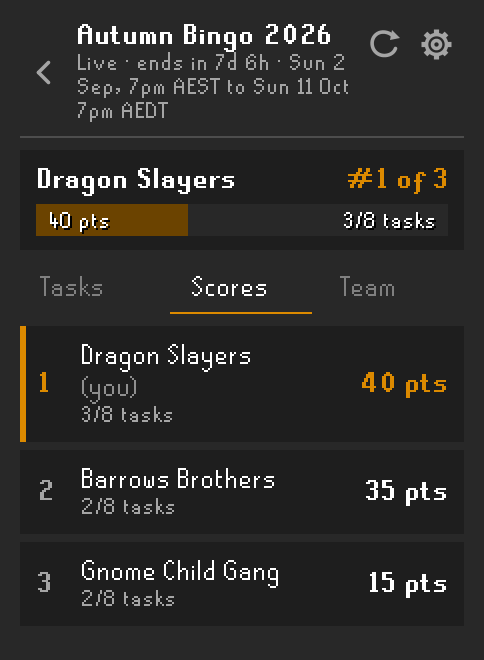
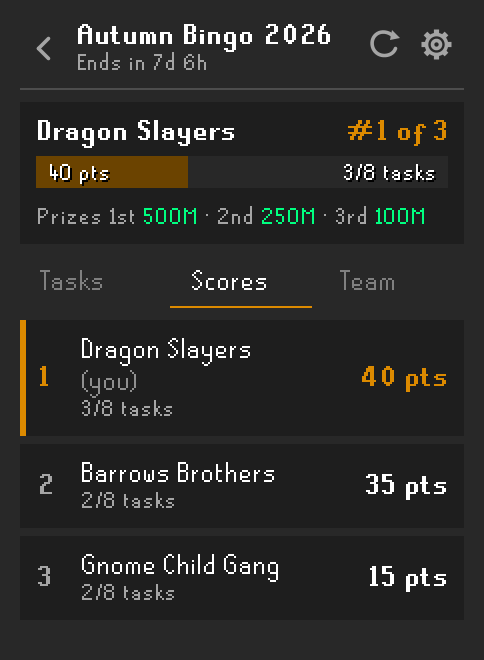
docs: refresh readme and screenshots (#37)

diff --git a/src/test/java/com/tsghub/ReadmeScreenshots.java b/src/test/java/com/tsghub/ReadmeScreenshots.java
@@ -148,7 +148,7 @@ public class ReadmeScreenshots
 		selectTab(organizer, "Tasks");
 		shoot(organizer, 860, 580, "admin-tasks");
 		selectTab(organizer, "Claims");
-		shoot(organizer, 860, 240, "admin-claims");
+		shoot(organizer, 860, 270, "admin-claims");
 
 		hero(480, eventList, board, parties);
 	}

diff --git a/README.md b/README.md
@@ -11,6 +11,7 @@ Clan events for **Type Shiii Gaming** (TSG), right in your RuneLite sidebar. Joi
 - **Bingo boards** with team tasks that update automatically from kills, drops, raids and collection log unlocks.
 - **Skill of the Week** and **Boss of the Week** leaderboards you join with one click.
 - **Custom** events (drop parties, clan trips, anything else) announced with the time, world and location.
+- **Prizes**: events can list GP prizes for 1st, 2nd and 3rd place.
 - **Clan parties** for raids, bossing and skilling. Join with one click, no passphrase to type, and see your party's health, prayer, gear, inventory and skills live.
 - **Members** list showing which clanmates are online, their world, area and what they're doing.
 - **Drops** history of the clan's big drops, raid loot, pets and collection log items, so you can catch up on what you missed.
@@ -18,7 +19,7 @@ Clan events for **Type Shiii Gaming** (TSG), right in your RuneLite sidebar. Joi
 
 ## Bingo
 
-Your team's board opens straight from the sidebar. Every task shows its points, a progress bar, and who contributed what. Open tasks sort first; tick **Hide completed** to focus on what's left.
+Your team's board opens straight from the sidebar. The header shows your team's rank, points and tasks done, plus the prize for each place. Every task shows its points, a progress bar, and who contributed what. Open tasks sort first; tick **Hide completed** to focus on what's left.
 
 **Scores** ranks every team, and **Team** lists your teammates. The board updates live while it's open.
 
@@ -49,6 +50,8 @@ Tasks can be **Team** (everyone's progress pools together), **Everyone** (each m
 
 **Custom events**, like drop parties, show when and where they happen, along with the host and any notes.
 
+The **Events** list splits live and upcoming events, with each one's prize pool. Open an event to see the prize for each place.
+
 Every event shows its start and end in your own time zone, with the zone name (for example "Mon 5 Oct, 7pm AEDT") and how long until it starts or ends. Competitions count gains made between those exact times, wherever you are.
 
 <p>
@@ -69,7 +72,7 @@ A party closes when its last member leaves. Members drop out after 3 minutes wit
 
 ## Members
 
-The **Members** section lists clanmates who are in clan chat with sharing on. Each row shows their world, area and what they're doing, such as `Skilling - Mining`, `Bossing - Vorkath` or `Raiding - Chambers of Xeric`.
+The **Members** section lists clanmates who are in clan chat with sharing on. Each row shows their world, area and what they're doing, such as `Mining · Motherlode Mine`, `Vorkath` or `Chambers of Xeric`. Clanmates on your world have their world shown in green.
 
 Activity is detected automatically from where you are and the XP you gain. Only the area name is sent, never your exact tile.
 
@@ -81,7 +84,7 @@ Anyone in clan chat with sharing on appears in the list. Your area and activity 
 
 ## Drops
 
-The **Drops** section keeps a history of the clan's big drops, so you can see what clanmates got while you were offline. Each row shows the item, who got it, its value and how long ago.
+The **Drops** section keeps a history of the clan's big drops, so you can see what clanmates got while you were offline. Drops are grouped by day, and each row shows the item, who got it, its value and how long ago. Tags mark raid loot (`CoX`, `ToB`, `ToA`), pets and new collection log items.
 
 It's built from the clan chat broadcasts your clan already has turned on: drops over the clan's value threshold, raid loot, pets and new collection log items. Anyone online with sharing on records them, so drops from clanmates who don't use TSG Hub show up too. If several people see the same broadcast, it's only recorded once.
 
@@ -115,7 +118,7 @@ Once the key checks out, an admin button appears in the sidebar header. It opens
 
 Your in-game clan rank doesn't grant admin access.
 
-1. **New event**: pick bingo, Skill of the Week, Boss of the Week or a custom event, then set its name and its start and end date and time. Times are entered in your computer's time zone, shown next to the fields, and players see them converted to theirs. Custom events can leave the end time empty. You can hide scores from players until the end.
+1. **New event**: pick bingo, Skill of the Week, Boss of the Week or a custom event, then set its name and its start and end date and time. Times are entered in your computer's time zone, shown next to the fields, and players see them converted to theirs. Custom events can leave the end time empty. You can add optional prizes for 1st, 2nd and 3rd place, in millions of GP, and hide scores from players until the end.
 2. **Teams**: add teams. Each gets a permanent invite code; use **Copy code** to share it.
 3. **Tasks**: add tasks shared by every team. Item tasks have type-ahead search with icons and ready-made sets, and raid tasks let you choose each raid and mode.
 4. **Claims**: approve or reject manual submissions. The tab shows how many are waiting.
